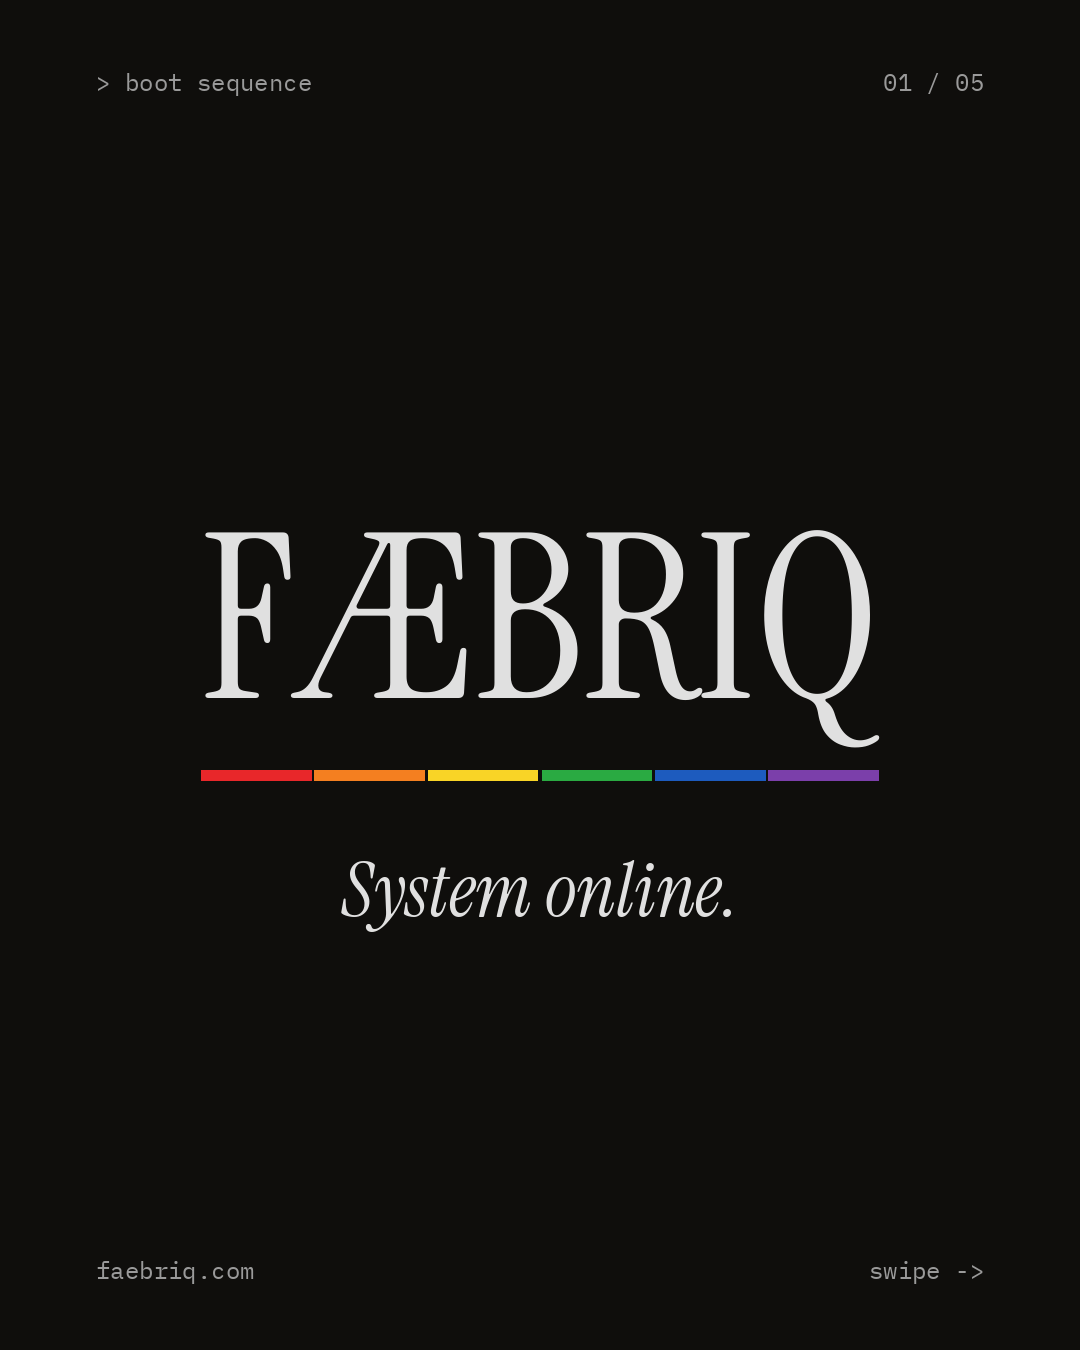
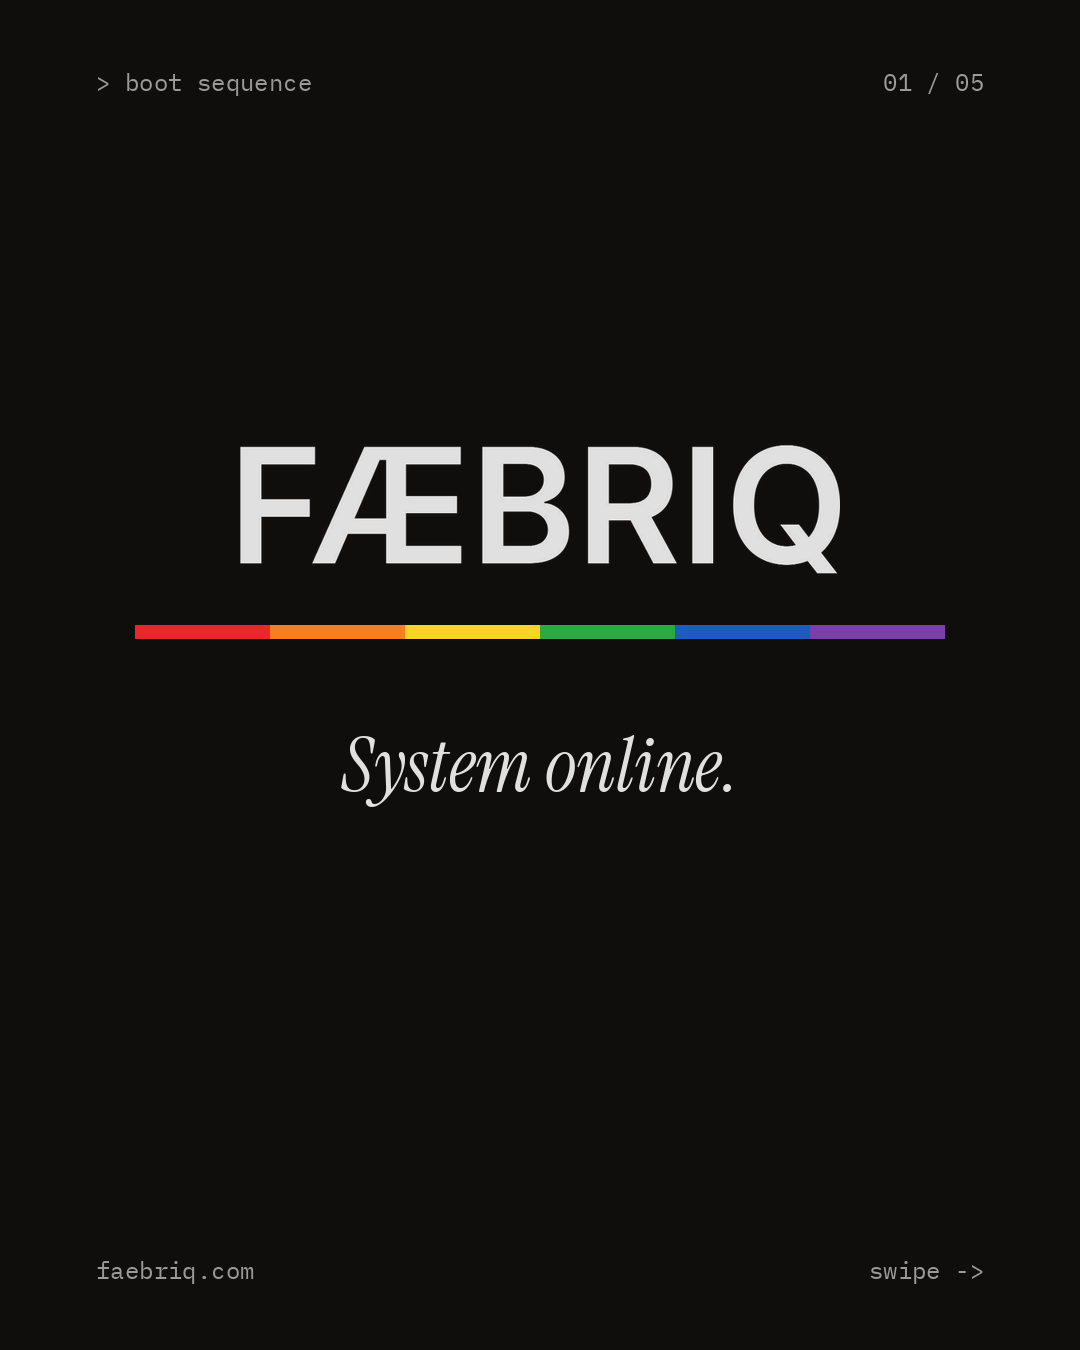
Set the sans wordmark and update CLAUDE.md (#28)
* Set the sans wordmark with a 1.35x bar, apply to IG post 1 slide 1

Claude-Session: https://claude.ai/code/session_01UySxquBWg9zCWn2arkbHkN

* Update CLAUDE.md wordmark rule to match the 2026-09-23 decision

Claude-Session: https://claude.ai/code/session_01UySxquBWg9zCWn2arkbHkN

---------

Changed region(s): [[0.1222, 0.3111, 0.8861, 0.5911], [0.3056, 0.6222, 0.6722, 0.6844]]

diff --git a/tools/make_social_slides.py b/tools/make_social_slides.py
@@ -13,6 +13,7 @@ SERIF = m.font_path('Instrument Serif', None, 'InstrumentSerif-Regular.ttf')
 ITAL = m.font_path('Instrument Serif:ital', None, 'InstrumentSerif-Italic.ttf')
 MONO = m.font_path('IBM Plex Mono', None, 'IBMPlexMono-Regular.ttf')
 LOCKUP = 'assets/print-art/off-the-clock-still-iconic-light-4500.png'
+WORDMARK_REF = 'assets/print-art/reference/wordmark-reference-2026-09-23.jpg'
 
 
 def font(path, size):
@@ -103,19 +104,40 @@ def slide(blocks, n, total, label, last=False):
     return im
 
 
+def wordmark(width):
+    """The approved wordmark (middle one in Maurice's 2026-09-23 reference), cut from the reference
+    image as an alpha mask. Returns (image, baseline_y)."""
+    ref = np.array(Image.open(WORDMARK_REF).convert('L')).astype(float)
+    top, base, bottom, left, right = 570, 777, 800, 490, 1516  # middle wordmark; base = bottom of F
+    a = np.clip((ref[top:bottom, left:right] - 16) / (232 - 16), 0, 1) * 255
+    im = Image.new('RGBA', a.shape[::-1], TEXT)
+    im.putalpha(Image.fromarray(a.astype('uint8')))
+    cols = np.where((a > 40).any(0))[0]
+    im = im.crop((cols[0], 0, cols[-1] + 1, im.height))
+    k = width / im.width
+    return im.resize((width, round(im.height * k)), Image.LANCZOS), round((base - top) * k)
+
+
 def centered_wordmark(n, total):
     im = slide([], n, total, '> boot sequence')
     d = ImageDraw.Draw(im)
-    f = font(SERIF, 230)
-    tw = d.textlength('FÆBRIQ', font=f)
-    x, y = (W - tw) / 2, 470
-    d.text((x, y), 'FÆBRIQ', font=f, fill=TEXT)
-    sy = y + 300
-    stripe(im, round(x), sy, round(tw), max(8, round(tw * m.SRC['bar_h'])))
+    wm, base = wordmark(600)
+    x, y = (W - wm.width) // 2, 440
+    im.paste(wm, (x, y), wm)
+    bw = round(wm.width * 1.35)  # bar is 1.35x the wordmark width (Maurice, 2026-09-23)
+    sy = y + base + round(wm.width * 0.104)
+    bar(im, (W - bw) // 2, sy, bw, round(wm.width * 0.023))
     fi = font(ITAL, 76)
     sub = 'System online.'
-    d.text(((W - d.textlength(sub, font=fi)) / 2, sy + 70), sub, font=fi, fill=TEXT)
+    d.text(((W - d.textlength(sub, font=fi)) / 2, sy + 90), sub, font=fi, fill=TEXT)
     return im
+
+
+def bar(im, x, y, w, h):
+    """Wordmark bar: six flat blocks, no gaps, as in the reference."""
+    d = ImageDraw.Draw(im)
+    for i, c in enumerate(m.CIRCUIT):
+        d.rectangle([x + round(i * w / 6), y, x + round((i + 1) * w / 6) - 1, y + h - 1], fill=c)
 
 
 def main():

diff --git a/IMAGERY_SPEC_2026-09-23.md b/IMAGERY_SPEC_2026-09-23.md
@@ -9,6 +9,7 @@ Decisions by Maurice. Decision board: https://claude.ai/artifact/9zSaBXjVRRWu1AV
 - **Ground:** the brand's near-black (#0f0e0c family). Dark studio surfaces, dark scenes.
 - **Lockup:** serif caps (Instrument Serif), line 2 smaller than line 1, a flat six-block rainbow stripe underneath. Source: the current masters in `assets/print-art/*-light-4500.png`, which match the "75% (current)" variant.
 - **Stickers:** FÆBRIQ small, centered under the stripe. Required on every sticker. All 5 files in `assets/print-art/sticker-final-system-2026-08-27/` already have it (checked 2026/09/23).
+- **Wordmark (set 2026/09/23):** the sans FÆBRIQ, middle version in `assets/print-art/reference/wordmark-reference-2026-09-23.jpg`, over a six-block bar with no gaps at 1.35x the wordmark width. Wordmark only: phrase lockups keep their serif.
 - **Brand spelling:** FÆBRIQ, with the Æ ligature, every time. The old repo mockups (`assets/mockup-*.png`, `FAEBRIQ_*_Mockup*.png`, `model-*-new.png`, `model-flatlay-new.png`) show a garbled wordmark, the circuit logo on slogan products, or an off-brand font. Never use them as a reference or as a product image.
 - **404 design (canonical, set 2026/09/23):** a big "404" on top, "STRAIGHT NOT FOUND" on one line underneath, then the flat stripe (plus FÆBRIQ on stickers). Reference: `assets/print-art/reference/404-canonical-reference-2026-09-23.webp`. Print files: `assets/print-art/404-straight-not-found-v3-light-4500.png` (apparel, tote) and `assets/print-art/sticker-final-system-2026-08-27/404-straight-not-found-v3-sticker-light-2400.png` (sticker), made with `tools/make_404_v3.py`. The "ERROR 404 / STRAIGHT NOT / FOUND" files are retired.
 - **Never:** embroidery claims, em or en dashes, the condensed bold sans (seen in `model-tee-new.png` and `model-flatlay-new.png`), or the old "big 404 + italic line" design.

diff --git a/CHANGELOG.md b/CHANGELOG.md
@@ -96,3 +96,9 @@ Why: store is open, Maurice asked for the first social posts.
 
 2026-09-23 Rendered IG launch posts 1 and 2 as 10 slides (1080x1350) in assets/social/launch-2026-09, built by tools/make_social_slides.py.
 Why: Maurice asked for the text carousels as ready-to-post images.
+
+2026-09-23 Set the wordmark: sans FÆBRIQ (reference saved in assets/print-art/reference), bar at 1.35x wordmark width. Applied to IG post 1 slide 1, rule added to IMAGERY_SPEC.
+Why: Maurice picked the middle version from three options.
+
+2026-09-24 Updated CLAUDE.md stable facts: wordmark is sans FÆBRIQ with a 1.35x bar, not Instrument Serif. Product phrase lockups keep Instrument Serif.
+Why: matches the 2026-09-23 wordmark decision, so future sessions do not follow the stale rule.

diff --git a/CLAUDE.md b/CLAUDE.md
@@ -19,7 +19,9 @@ requests unless explicitly asked. When the assigned task is done, stop.
 
 ## Stable facts — trust these, do not re-verify each session
 - Brand: queer-coded dark-tech merch. Voice: dry, deadpan, terminal wit.
-  Instrument Serif silver wordmark on near-black (#0f0e0c bg / #e0e0e0 text).
+  Sans FÆBRIQ wordmark (reference: assets/print-art/reference/wordmark-reference-2026-09-23.jpg)
+  with a six-block bar at 1.35x its width, on near-black (#0f0e0c bg / #e0e0e0 text).
+  Phrase lockups (product prints) keep Instrument Serif.
   One pride-circuit accent per product.
 - Dry/deadpan = delivery style, NOT low-energy, monotone, or flat. Any
   marketing copy, avatar/video persona, or promotional content still needs
